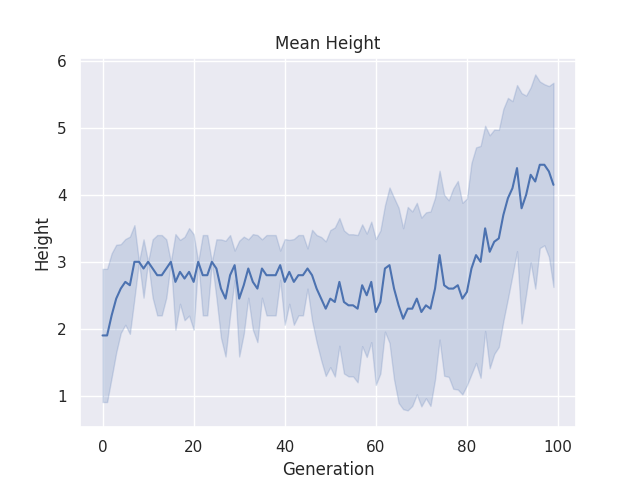
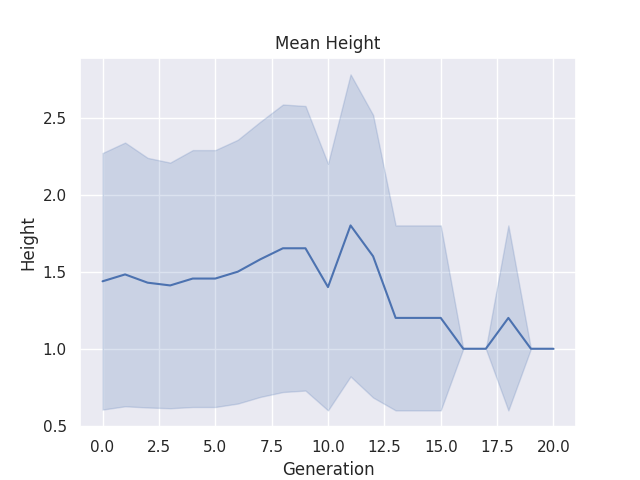
Height as measure + used as fitness

diff --git a/experiments/EC_students/visualize-brent.py b/experiments/EC_students/visualize-brent.py
@@ -12,7 +12,7 @@ def datafolder_to_df(experiment_name):
     """ This function extracts the phenotype, behavioural, fitness and generation data from the files and returns a df """
 
     # Data input locations
-    experiment_folder = f"data/default_experiment/{experiment_name}/"
+    experiment_folder = f"data/{experiment_name}/"
     phenotype_folder = experiment_folder + "data_fullevolution/descriptors/"
     behave_folder = phenotype_folder + "behavioural/"
     generations_folder = experiment_folder + "generations/"
@@ -32,13 +32,13 @@ def datafolder_to_df(experiment_name):
             reader = csv.reader(csvfile, delimiter=" ")
             descr_dict = {rows[0]:float(rows[1]) for rows in reader}
         robots[robot_id] = descr_dict
-    
+
     ## Behavioural
     for file in os.listdir(behave_folder):
         if not file[-4:] == ".txt":
             continue
         robot_id = int(file.split("_")[2].split(".")[0])
-     
+
         with open(behave_folder + file) as csvfile:
             reader = csv.reader(csvfile, delimiter=" ")
             behave_dict = {rows[0]:float(rows[1]) for rows in reader if len(rows) > 1}
@@ -53,14 +53,14 @@ def datafolder_to_df(experiment_name):
                 if not "generations" in robots[int(row[0])]:
                     robots[int(row[0])]["generations"] = []
                 robots[int(row[0])]["generations"].append(generation_id)
-    
+
     # Add fitness to each robot
     with open(fitness_csv) as csvfile:
         reader = csv.reader(csvfile, delimiter=",")
         for row in reader:
             if not row[1] == "None":
                 robots[int(row[0])]["fitness"] = float(row[1])
-    
+
     robot_df = pd.DataFrame.from_dict(robots, orient="index").sort_index()
 
     return robot_df
@@ -91,7 +91,7 @@ def get_mean_and_std_generation_wise(x, y):
         std = np.std([fitness for fitness, y_gen in zip(y,x) if y_gen == generation])
         mean_gens[generation] = mean
         std_gens[generation] = std
-    
+
     return generations,mean_gens, std_gens
 
 
@@ -104,7 +104,7 @@ def plot_generational_graph(generations, mean, std, label, figure_dir):
     plt.xlabel("Generation")
     plt.ylabel(label)
     plt.title(f"Mean {label}")
- 
+
     # Save png of plot to disc
     if not os.path.exists(figure_dir):
         os.makedirs(figure_dir)
@@ -116,11 +116,11 @@ def plot_generational_graph(generations, mean, std, label, figure_dir):
 if __name__== "__main__":
 
     # Name of the experiment folder
-    experiment_name = "1"
+    experiment_name = "height_fitness_long/1"
 
     # Returns all robots and their associated data in a df
     robot_df = datafolder_to_df(experiment_name)
-    
+
     # To check out the data
     robot_df.to_csv('df_test.csv')
 
@@ -133,18 +133,10 @@ if __name__== "__main__":
     generations, mean, std = get_mean_and_std_generation_wise(x, y)
     plot_generational_graph(generations, mean, std, "Fitness", figure_dir)
 
-    x, y = get_data_per_generation(robot_df, "line_fitness")
+    x, y = get_data_per_generation(robot_df, "path_length")
     generations, mean, std = get_mean_and_std_generation_wise(x, y)
-    plot_generational_graph(generations, mean, std, "Line Fitness", figure_dir)
+    plot_generational_graph(generations, mean, std, "Distance traveled", figure_dir)
 
-    x, y = get_data_per_generation(robot_df, "z_depth")
+    x, y = get_data_per_generation(robot_df, "average_height")
     generations, mean, std = get_mean_and_std_generation_wise(x, y)
-    plot_generational_graph(generations, mean, std, "Height", figure_dir)
-
-
-
-    
-
-
-        
-    
+    plot_generational_graph(generations, mean, std, "Average height", figure_dir)

diff --git a/pyrevolve/evolution/population/population.py b/pyrevolve/evolution/population/population.py
@@ -14,7 +14,7 @@ from pyrevolve.evolution.population.population_config import PopulationConfig
 from pyrevolve.revolve_bot.brain import BrainCPGTarget
 from pyrevolve.revolve_bot.revolve_bot import RevolveBot
 from pyrevolve.tol.manage.measures import BehaviouralMeasurements
-from pyrevolve.evolution.fitness import scale_fitness, follow_line, robot_height
+from pyrevolve.evolution.fitness import scale_fitness, follow_line
 
 if TYPE_CHECKING:
     from typing import Callable, List, Optional
@@ -313,7 +313,7 @@ class Population:
         robot_futures = []
 
 
-        
+
         for individual in new_individuals:
             logger.info(f"Evaluating individual (gen {gen_num}) {individual.id} ...")
             assert callable(self.config.fitness_function)
@@ -331,21 +331,21 @@ class Population:
             (   individual.fitness,
                 individual.phenotype._behavioural_measurements,
             ) = await future
-        
+
         if self.config.line_height_scaled:
-            
+
             mean_line_fitness = np.sum([individual.phenotype._behavioural_measurements.line_fitness for individual in self.individuals])/len(self.individuals)
             line_fitness_range = (max(self.individuals, key= lambda x: x.phenotype._behavioural_measurements.line_fitness).phenotype._behavioural_measurements.line_fitness
                                 - min(self.individuals, key= lambda x: x.phenotype._behavioural_measurements.line_fitness).phenotype._behavioural_measurements.line_fitness)
-       
+
             mean_height = np.sum([individual.phenotype._morphological_measurements.z_depth for individual in self.individuals])/len(self.individuals)
             height_range = (max(self.individuals, key= lambda x: x.phenotype._morphological_measurements.z_depth).phenotype._morphological_measurements.z_depth
                             - min(self.individuals, key= lambda x: x.phenotype._morphological_measurements.z_depth).phenotype._morphological_measurements.z_depth)
-            
+
             for individual in self.individuals:
                 individual.fitness = (scale_fitness(individual.phenotype._behavioural_measurements.line_fitness, mean_line_fitness, line_fitness_range)
                                      + scale_fitness(individual.phenotype._morphological_measurements.z_depth, mean_height, height_range))
-        
+
         print([individual.fitness for individual in self.individuals])
         print("/n/n/n/n/n")
 

diff --git a/pyrevolve/tol/manage/measures.py b/pyrevolve/tol/manage/measures.py
@@ -6,8 +6,6 @@ from pyrevolve.util import Time
 from pyrevolve.angle.manage.robotmanager import RobotManager as RvRobotManager
 from pyrevolve.revolve_bot.revolve_bot import RevolveBot
 
-from pyrevolve.evolution.fitness import follow_line
-
 
 class BehaviouralMeasurements:
     """
@@ -26,7 +24,8 @@ class BehaviouralMeasurements:
             self.displacement_velocity_hill = displacement_velocity_hill(robot_manager)
             self.head_balance = head_balance(robot_manager)
             self.contacts = contacts(robot_manager, robot)
-            self.line_fitness = follow_line(robot_manager, robot)
+            self.average_height = average_height(robot_manager)
+            self.path_length = path_length(robot_manager)
 
         else:
             self.velocity = None
@@ -35,17 +34,18 @@ class BehaviouralMeasurements:
             self.displacement_velocity_hill = None
             self.head_balance = None
             self.contacts = None
-            self.line_fitness = None
+            self.average_height = None
+            self.path_length = None
 
     def items(self):
         return {
             'velocity': self.velocity,
-            #'displacement': self.displacement,
             'displacement_velocity': self.displacement_velocity,
             'displacement_velocity_hill': self.displacement_velocity_hill,
             'head_balance': self.head_balance,
             'contacts': self.contacts,
-            "line_fitness": self.line_fitness
+            'average_height': self.average_height,
+            'path_length': self.path_length,
         }.items()
 
 
@@ -176,3 +176,11 @@ def logs_position_orientation(robot_manager: RvRobotManager, o, evaluation_time,
             robot_manager.avg_y = 0
             robot_manager.avg_z = 0
             robot_manager.count_group = 1
+
+def average_height(robot_manager: RvRobotManager) -> float:
+    """ This function takes the Z position of the head throughout a robot's life and averages it """
+    # z_depth = robot._morphological_measurements.z_depth
+    sum_heights = 0
+    for timestep_xyz in robot_manager._positions:
+        sum_heights += timestep_xyz[2]
+    return sum_heights / (robot_manager._positions.__len__()) if robot_manager._positions.__len__() != 0 else 0

diff --git a/experiments/EC_students/manager_population_cppn.py b/experiments/EC_students/manager_population_cppn.py
@@ -6,7 +6,7 @@ import multineat
 from pyrevolve import parser
 from pyrevolve.custom_logging.logger import logger
 from pyrevolve.evolution.fitness import follow_line as fitness_follow_line
-from pyrevolve.evolution.fitness import robot_height, line_and_height
+from pyrevolve.evolution.fitness import average_height_fitness
 from pyrevolve.evolution.population.population import Population
 from pyrevolve.evolution.population.population_config import PopulationConfig
 from pyrevolve.evolution.population.population_management import (
@@ -86,14 +86,14 @@ async def run():
 
     # experiment params #
     num_generations = 100
-    
+
     """
     population_size = 10
     offspring_size = 5
     """
 
-    population_size = 20
-    offspring_size = 10
+    population_size = 50
+    offspring_size = 20
 
     target_distance = 10
 
@@ -178,7 +178,7 @@ async def run():
         population_size=population_size,
         genotype_constructor=create_random_genotype,
         genotype_conf=genotype_constructor_config,
-        fitness_function=fitness_follow_line,
+        fitness_function=average_height_fitness,
         mutation_operator=bodybrain_composition_mutate,
         mutation_conf=bodybrain_composition_config,
         crossover_operator=bodybrain_composition_crossover,
@@ -194,7 +194,7 @@ async def run():
         experiment_name=settings.experiment_name,
         experiment_management=experiment_management,
         # target_distance=target_distance,
-        line_height_scaled = True,
+        # line_height_scaled = True,
 
     )
 

diff --git a/pyrevolve/evolution/fitness.py b/pyrevolve/evolution/fitness.py
@@ -7,6 +7,7 @@ from typing import TYPE_CHECKING, Tuple
 
 from pyrevolve.custom_logging.logger import logger
 from pyrevolve.revolve_bot.revolve_module import Orientation
+from pyrevolve.tol.manage.measures import average_height
 from pyrevolve.SDF.math import Vector3
 from pyrevolve.tol.manage import measures
 
@@ -281,11 +282,9 @@ def follow_line(robot_manager: RobotManager, robot: RevolveBot) -> float:
 
     return fitness
 
-def robot_height(robot_manager: RobotManager, robot: RevolveBot) -> float:
-    """ Fitness is defined as the height in blocks of the morphology"""
-    z_depth = robot._morphological_measurements.z_depth
 
-    return z_depth
+def average_height_fitness(robot_manager: RobotManager, robot: RevolveBot) -> float:
+    return average_height(robot_manager)
 
 def line_and_height(robot_manager: RobotManager, robot: RevolveBot) -> float:
 
@@ -296,7 +295,5 @@ def line_and_height(robot_manager: RobotManager, robot: RevolveBot) -> float:
     return fitness_combined
 
 def scale_fitness(fitness: float, mean_fitness: float, fitness_range: float) -> float:
-    scaled_fitness = (fitness - mean_fitness) / fitness_range 
+    scaled_fitness = (fitness - mean_fitness) / fitness_range
     return scaled_fitness
-
-

diff --git a/experiments/EC_students/consolidate_experiments.py b/experiments/EC_students/consolidate_experiments.py
@@ -3,7 +3,7 @@ import os
 # set these variables according to your experiments #
 dirpath = 'data'
 experiments_type = [
-    'lsys'
+    'height_fitness'
 ]
 runs = 1
 
@@ -124,6 +124,8 @@ def build_headers(path):
     file_summary.write(phenotype_headers[-1] + '\t')
     phenotype_headers.append('parents_2')
     file_summary.write(phenotype_headers[-1] + '\t')
+    #phenotype_headers.append('average_height')
+    #file_summary.write(phenotype_headers[-1] + '\t')
 
     file_summary.write('fitness\t')
     file_summary.write('fitness_before_learn\n')
